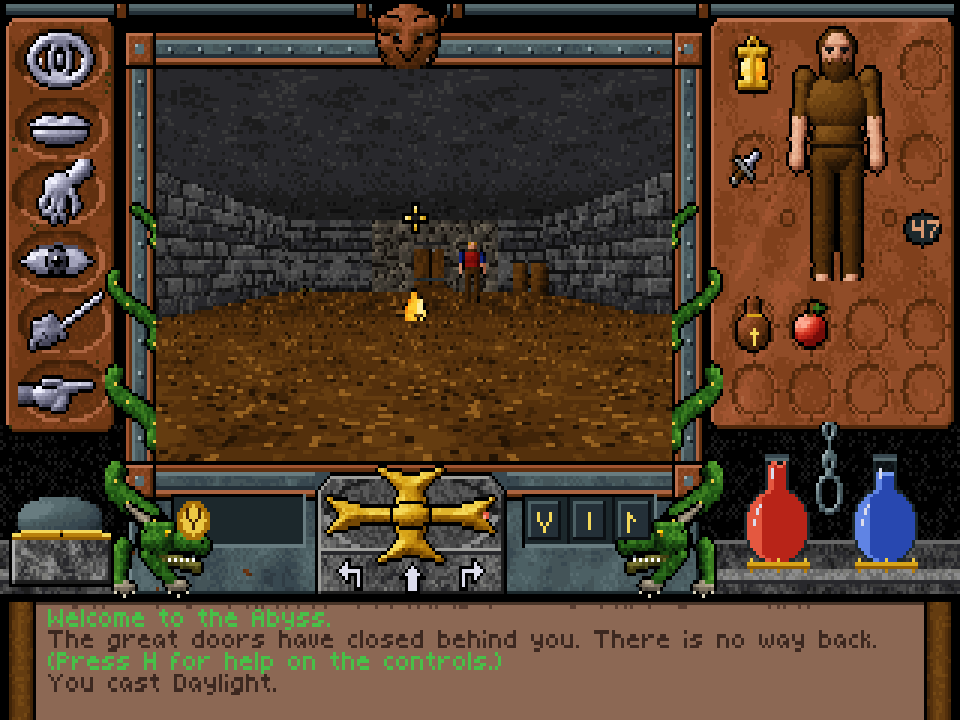
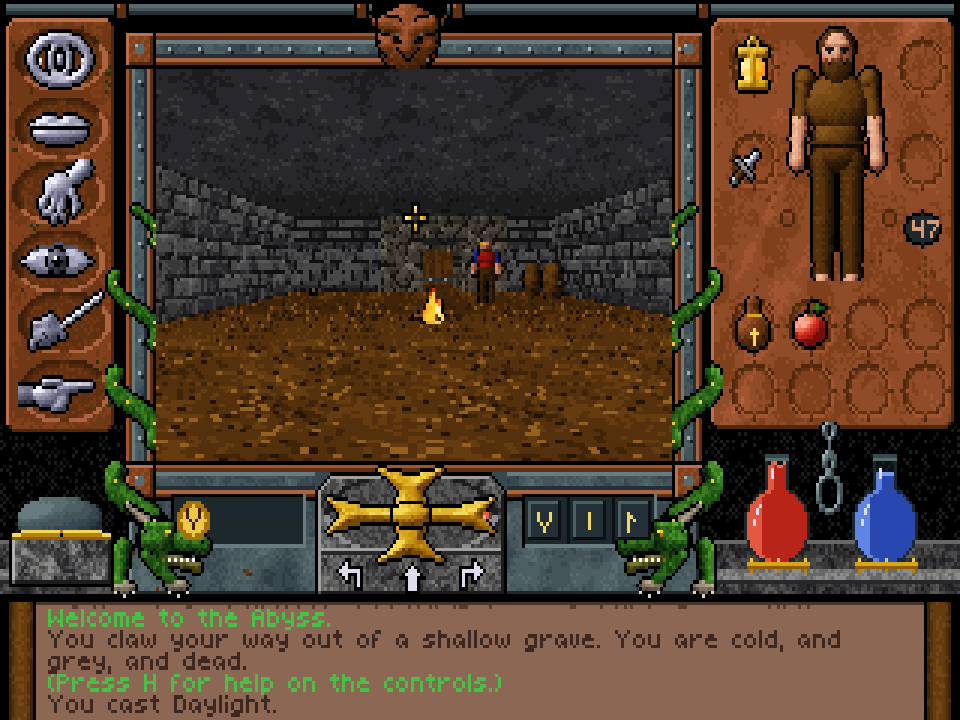
Refresh the README screenshots for the new story
The camp, lake, dwarven hall and Lord of Souls shots showed the old
opening message; the fireball shot showed the old demon. The fireball is
now cast at Malchor's thralls in the Deep Sanctum.

Changed region(s): [[0.1562, 0.2139, 0.7188, 0.6417], [0.0312, 0.8556, 0.9062, 1.0], [0.0312, 0.8556, 0.0625, 0.8861]]

diff --git a/README.md b/README.md
@@ -20,7 +20,7 @@ original. The story and characters are original.
 | ![Title screen](screenshots/title.png) | ![Character creation](screenshots/character-creation.png) |
 | ![The outcasts' camp](screenshots/outcasts-camp.png) | ![An underground lake](screenshots/underground-lake.png) |
 | ![Talking to Tobin](screenshots/conversation.png) | ![Bartering](screenshots/barter.png) |
-| ![The dwarven hall](screenshots/dwarven-hall.png) | ![Casting a fireball](screenshots/fireball.png) |
+| ![The dwarven hall](screenshots/dwarven-hall.png) | ![A fireball against Malchor's thralls](screenshots/fireball.png) |
 | ![The Lord of Souls](screenshots/lord-of-souls.png) | ![The automap](screenshots/automap.png) |
 
 ## Building and running
